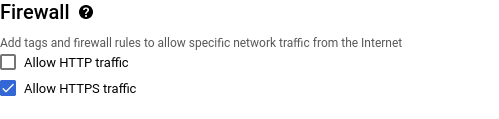
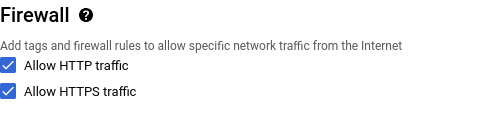
Document how to install dependencies and launch the server process for the first time

diff --git a/README.md b/README.md
@@ -217,7 +217,7 @@ infrastructure.  Skip this section if you already have a server or VM available.
 
    ![name and region](docs/name_and_region.png)
 
-1. Under Firewall, check **Allow HTTPS traffic**:
+1. Under Firewall, check both **Allow HTTP traffic** and **Allow HTTPS traffic**:
 
    ![firewall](docs/firewall.png)
 
@@ -238,3 +238,89 @@ infrastructure.  Skip this section if you already have a server or VM available.
    the SSH button:
 
    ![VM instances page](docs/vm_instances.png)
+
+
+## Starting the server
+
+Follow these steps to launch this project.  They assume you are sitting at a shell prompt on the
+server or VM on which you want to host your instance.  If the domain you used as the authorized
+redirect URI when registering the OAuth application does not yet point to the server or VM, first
+configure your domain's nameserver to serve an A record (and/or AAAA record, if applicable) mapping
+that domain to the server or VM's IP address.
+
+1. Run the command: `$ unshare --version`
+
+   If the current version number is less than 2.38, run the following additional commands, verifying
+   that the version number printed by the last line is now 2.38:
+   ```
+   $ sudo apt install binutils uidmap
+   $ curl -o util-linux-2.38-2_amd64.deb http://snapshot.debian.org/archive/debian/20220413T031740Z/pool/main/u/util-linux/util-linux_2.38-2_amd64.deb
+   $ ar x util-linux-2.38-2_amd64.deb data.tar.xz
+   $ tar xf data.tar.xz ./usr/bin/unshare
+   $ curl -o libc6_2.33-1_amd64.deb http://snapshot.debian.org/archive/debian/20211212T154235Z/pool/main/g/glibc/libc6_2.33-1_amd64.deb
+   $ ar x libc6_2.33-1_amd64.deb data.tar.xz
+   $ tar xf data.tar.xz ./lib/x86_64-linux-gnu/ld-2.33.so ./lib/x86_64-linux-gnu/libc.so.6 ./lib/x86_64-linux-gnu/libc-2.33.so ./lib/x86_64-linux-gnu/libnss_files.so.2 ./lib/x86_64-linux-gnu/libnss_files-2.33.so
+   $ rm data.tar.xz
+   $ cat >unshare <<-tac
+   #!/bin/sh
+
+   mypath="\`realpath "\$0"\`"
+   mydir="\`dirname "\$mypath"\`"
+   exec "\$mydir/lib/x86_64-linux-gnu/ld-2.33.so" --library-path "\$mydir/lib/x86_64-linux-gnu" "\$mydir/usr/bin/unshare" "\$@"
+   tac
+   $ chmod +x unshare
+   $ sudo ln -s "$PWD/unshare" /usr/local/bin
+   $ `which unshare` --version
+   ```
+
+1. Run the command: `$ sudo apt install python3-certbot-apache`
+
+1. Run the command: `$ sudo certbot --apache`
+
+1. Answer the configuration prompts and wait for verification to complete.  (Note that this requires
+   HTTP to be allowed through any firewall(s) in addition to HTTPS.)
+
+1. Run the command: `$ sudo cp /etc/apache2/sites-available/000-default-le-ssl.conf
+   /etc/apache2/sites-available/openvscode-gdrive.conf`
+
+1. Edit the `openvscode-gdrive.conf` file, replacing the `DocumentRoot` line with the following:
+   ```
+   ProxyPass / http://localhost:8000/
+   ProxyPassReverse / http://localhost:8000/
+   RewriteEngine on
+   RewriteCond %{HTTP:Upgrade} websocket [NC]
+   RewriteCond %{HTTP:Connection} upgrade [NC]
+   RewriteRule ^/?(.*) "ws://localhost:8000/$1" [P,L]
+   ```
+
+1. Run the command: `$ sudo a2dissite 000-default 000-default-le-ssl`
+
+1. Run the command: `$ sudo a2enmod proxy_http proxy_wstunnel`
+
+1. Run the command: `$ sudo a2ensite openvscode-gdrive`
+
+1. Run the command: `$ sudo systemctl restart apache2`
+
+1. Run the command: `$ sudo apt install unzip`
+
+1. Follow the Deno installation instructions at [deno.land](https://deno.land), being sure to use a
+   version no older than 1.21.0.
+
+1. Run the command: `$ sudo apt install git`
+
+1. Use `git clone` to clone this repository, then `cd` into the resulting directory.
+
+1. Run the command: `$ ./deps.ts`
+
+1. Answer each of the configuration prompts or hit enter to select its default.  If you want support
+   for GUI applications, be sure to answer `y` at the appropriate time.
+
+1. Upload the JSON file you downloaded when registering the OAuth application and rename it to
+   `config.json`.
+
+1. Run the command: `$ sudo apt install fuse3`
+
+1. If you do not want your instance to support GUI applications, skip this step.  Otherwise, run the
+   command: `$ sudo apt install xkb-data x11-xkb-utils x11-xserver-utils`
+
+1. Run the command: `$ ./main.ts`
